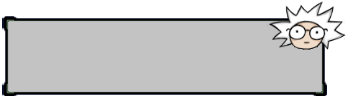
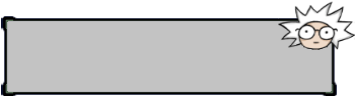
feature: dialogue box promena
sada ce se prikazivati drugaciji dialogue box u zavisnosti da li recenicu izgovara igrac ili NPC

Changed region(s): [[0.7692, 0.0, 1.0, 0.9897], [0.0, 0.1546, 0.057, 0.9897]]

diff --git a/timesweeper/Source/DialogueBox.cpp b/timesweeper/Source/DialogueBox.cpp
@@ -6,11 +6,22 @@ extern Game *game;
 DialogueBox::DialogueBox(QPair<DialogueHandler::Speaker, QString> &text)
 {
     //TODO: napraviti da drugaciji dialog box bude u zavisnosti od DialogueHandler::Speaker
-    setPixmap(QPixmap(":/Other/Resources/Other/dialogue_box.png"));
     currentText = new QGraphicsTextItem(this);
     currentText->setPlainText(text.second);
-    currentText->setTextWidth(300);
-    currentText->setPos(5,5);  //pozicija od gornjeg levog ugla pixmapa
+
+    if(text.first == DialogueHandler::Speaker::Strauss)
+    {
+        setPixmap(QPixmap(":/Other/Resources/Other/dialogue_box_strauss.png"));
+        currentText->setTextWidth(280);
+        currentText->setPos(10,20);   //pozicija od gornjeg levog ugla pixmapa
+    }
+    else
+    {
+        setPixmap(QPixmap(":/Other/Resources/Other/dialogue_box.png"));
+        currentText->setTextWidth(300);
+        currentText->setPos(5,5);
+    }
+
     QPointF playerPosition = game->player->pos();
     setPos(playerPosition + QPointF(50, -100));
 }
